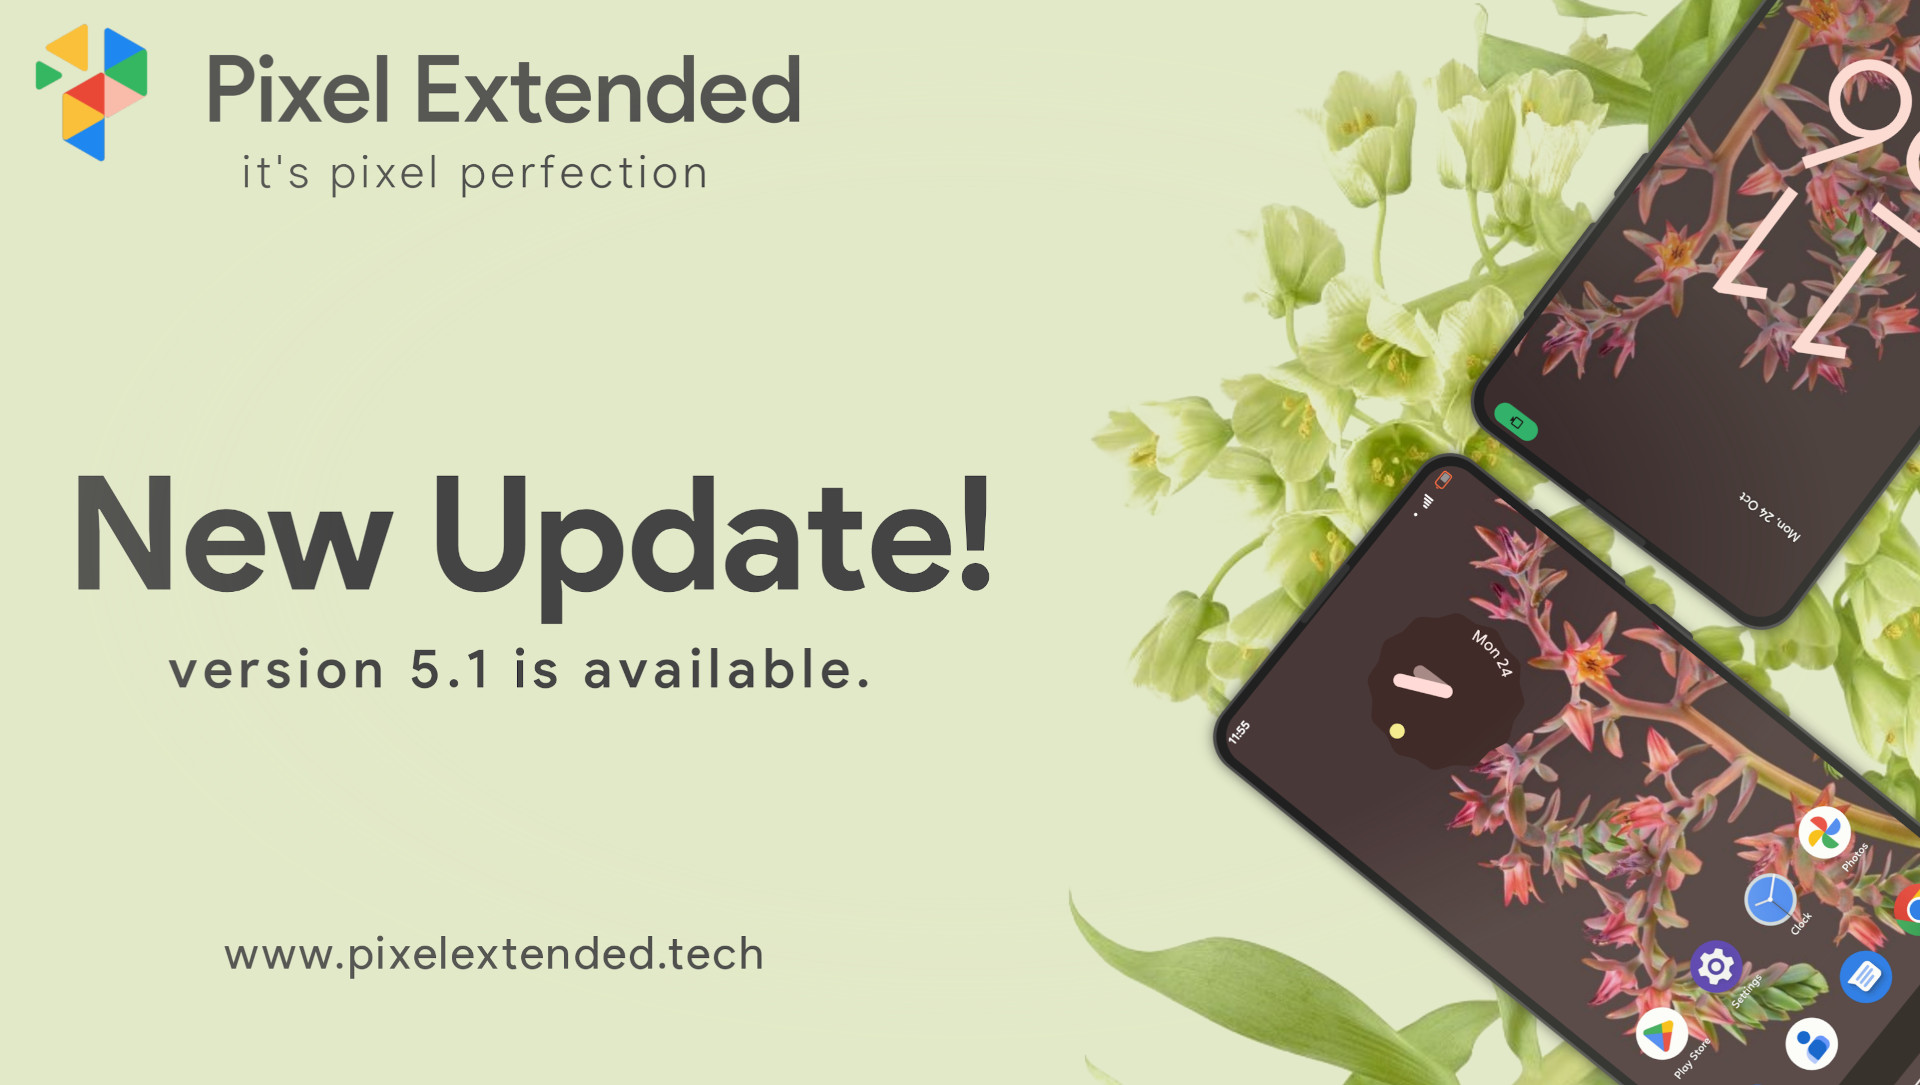
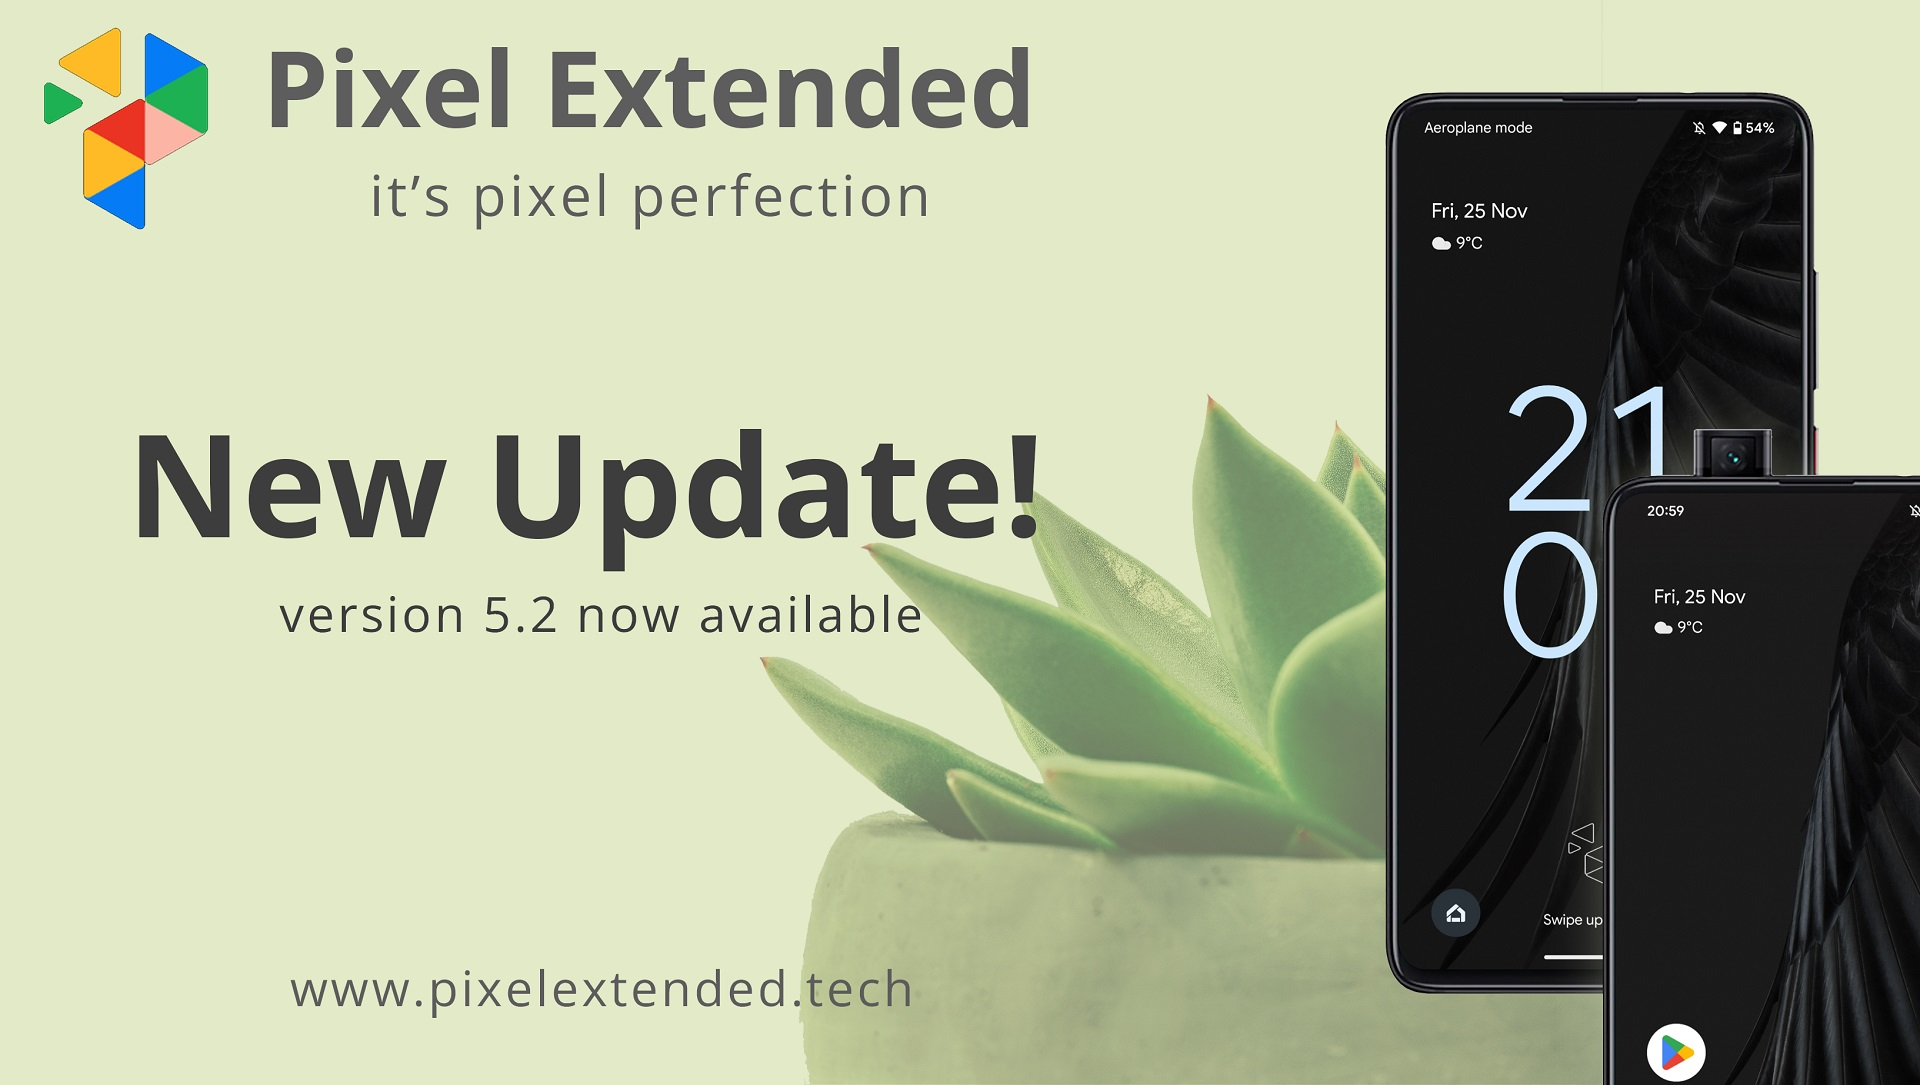
V5.2 Rain month !

diff --git a/changelog.md b/changelog.md
@@ -1,5 +1,24 @@
 # Changelog
 
+  # V5.2 (25.11.2022) Rain Month !
+
+  - November Security Patch
+  - Full ROM Rebased on latest PE+
+  - Black Theme
+  - Live Display
+  - Face Unlock
+  - Clock Customizations
+  - Brightness Sliding Control
+  - Brightness Slider Position
+  - Brightness Slider in QQS
+  - UDFPS Animation
+  - UDFPS Icon Picker
+  - UDFPS Custom Icon
+  - Fixed Screen Off UDFPS
+  - Per-app Volume Control
+  - Reorganized Gestures Settings in PEXtension
+  - Reorganized Button Settings in PEXtension
+
   # V5.1 (24.10.2022) Leaves Month !
 
   - October Security Patch
